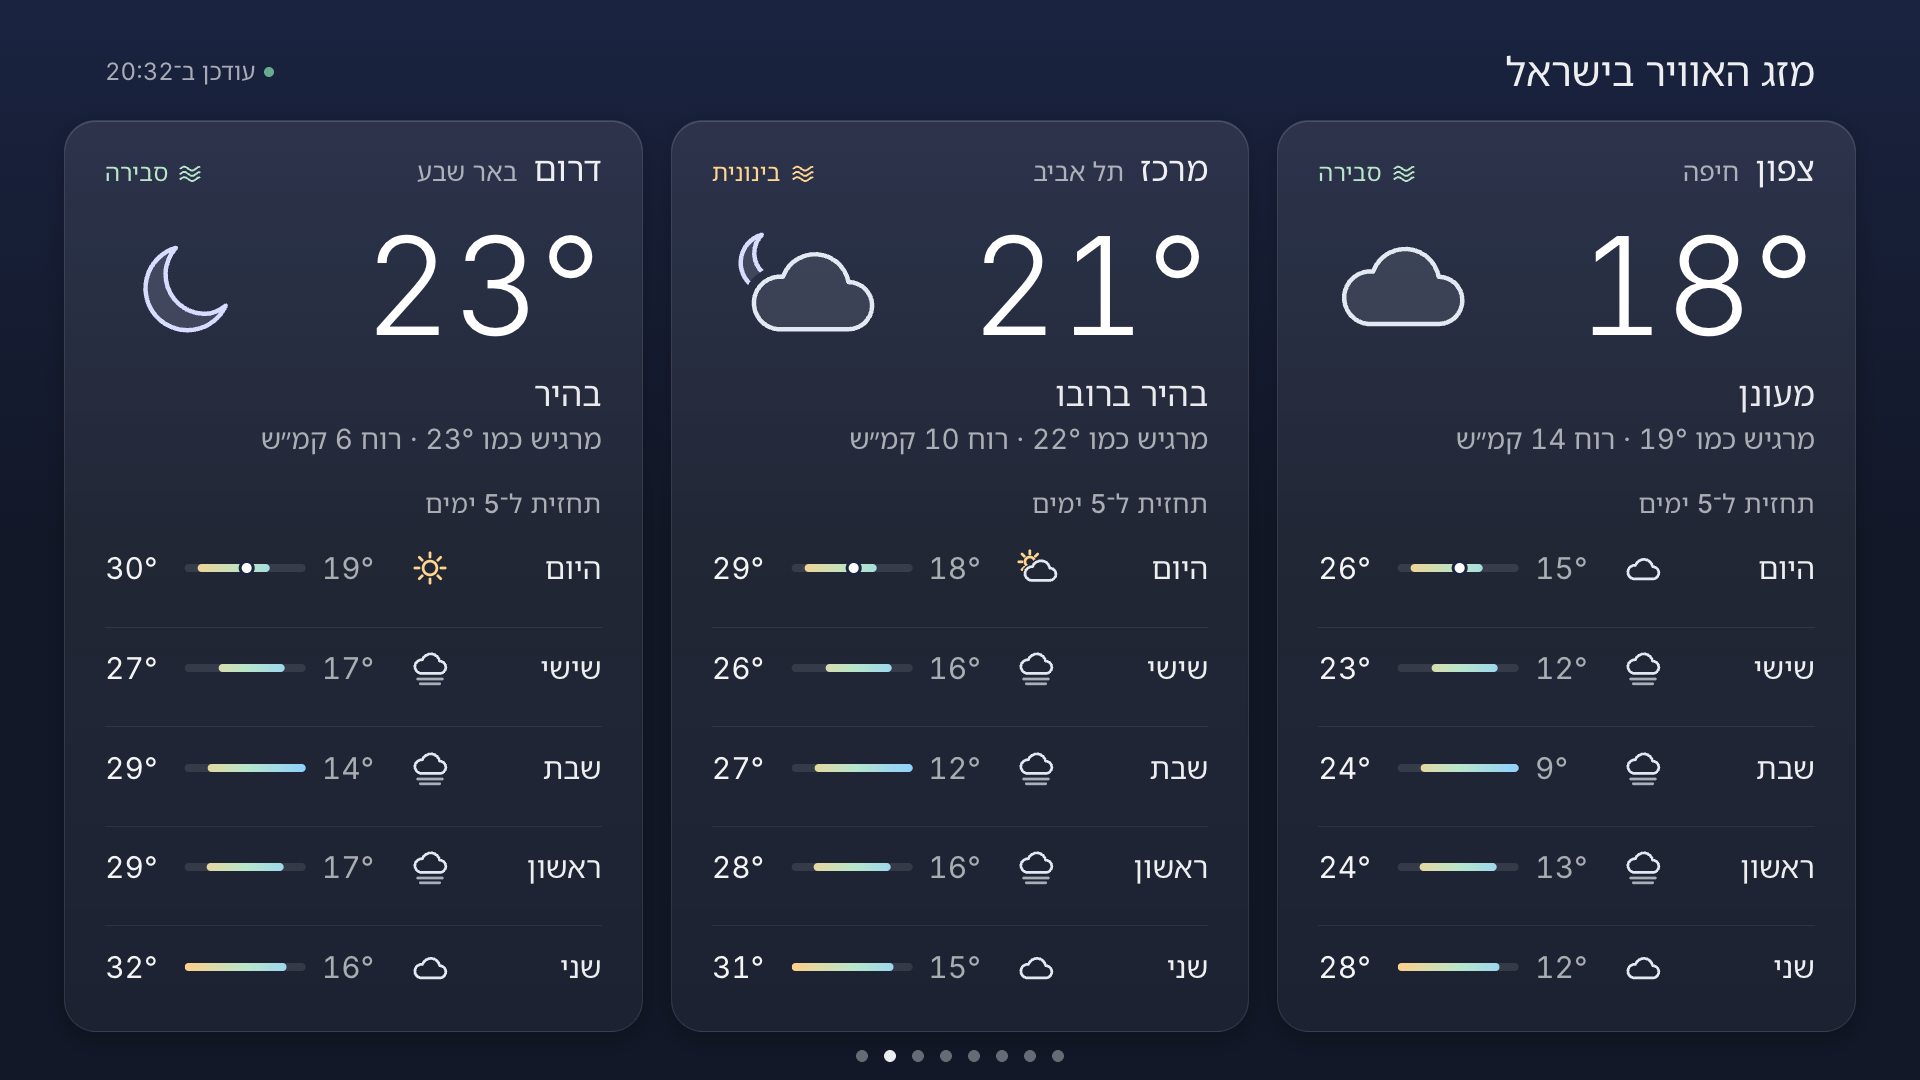
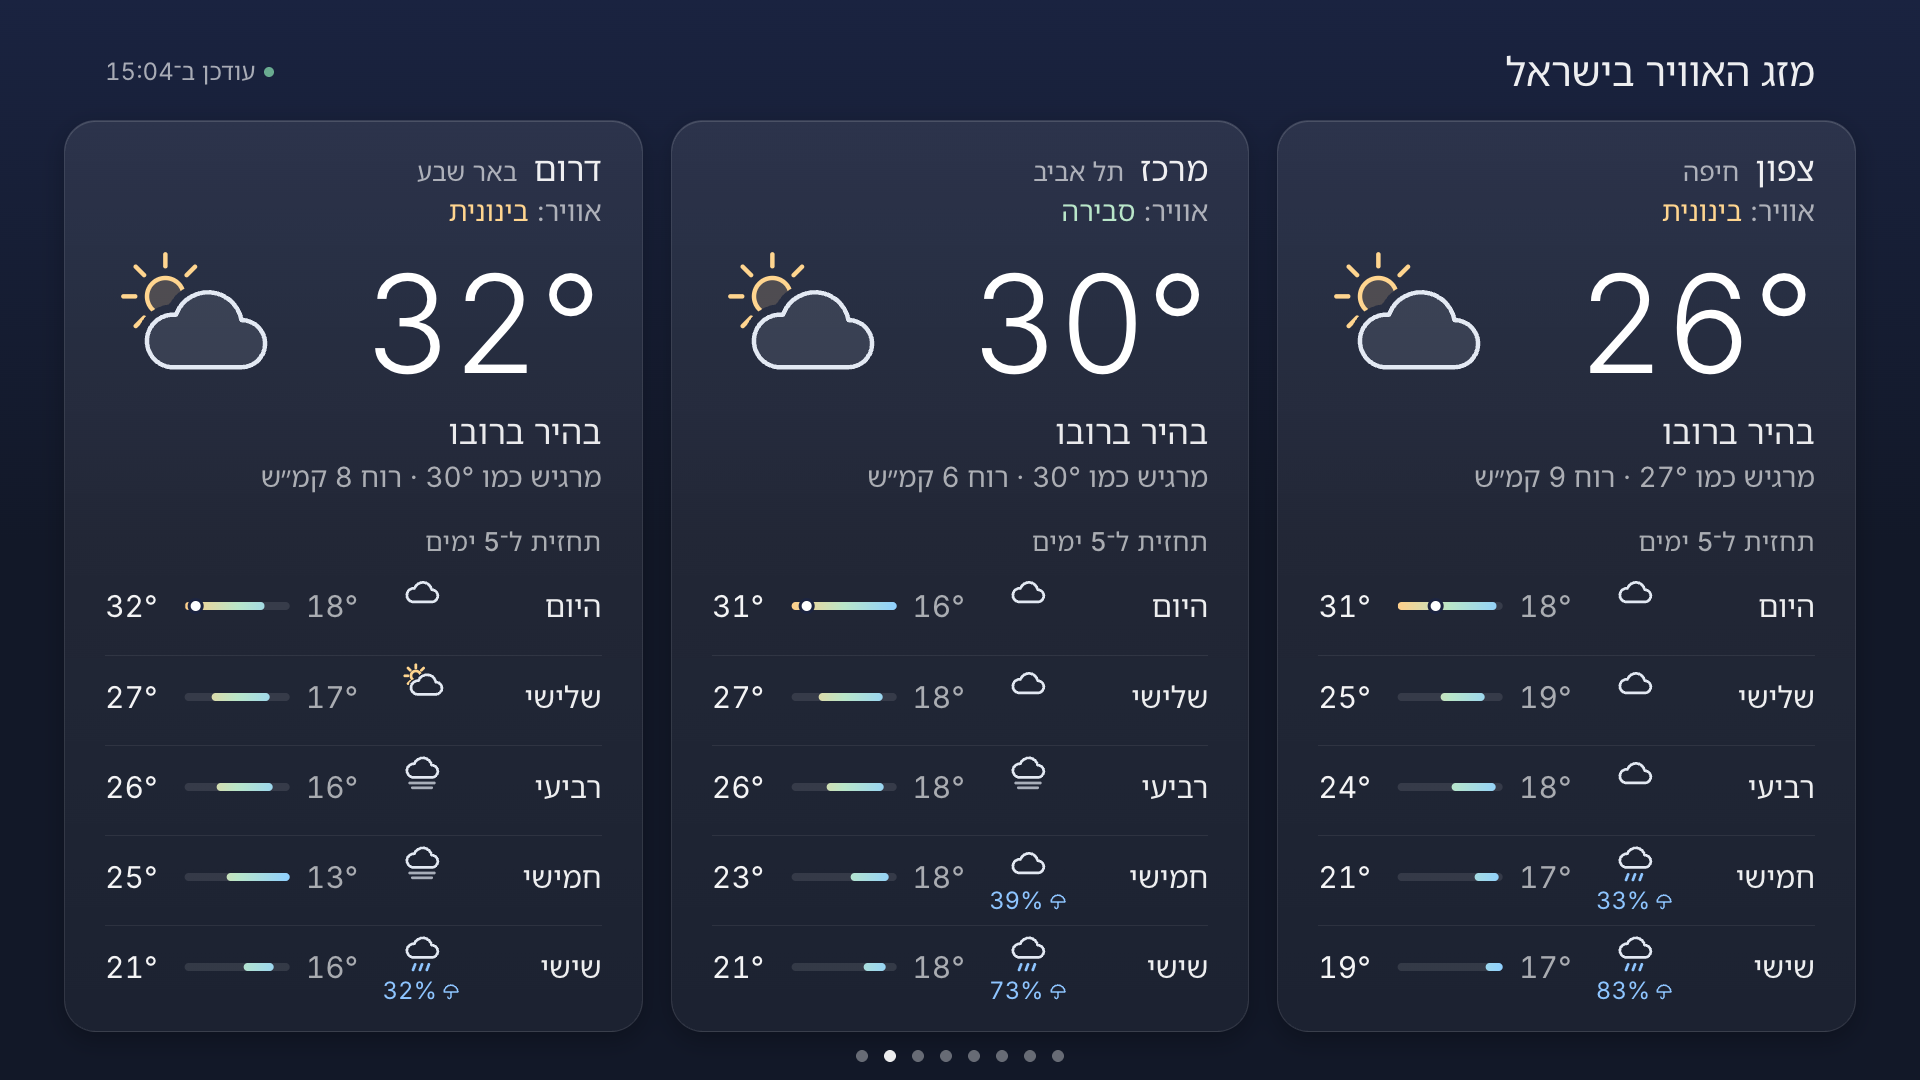
README: refresh every screenshot

diff --git a/README.md b/README.md
@@ -88,8 +88,8 @@ leaves the front it sends `stop-behind`. If the player is not installed or not r
 
 <table>
   <tr>
-    <td><img src="docs/screenshots/he-1-main.png" alt="Home screen in Hebrew: clocks for Israel, Ukraine and Sydney, the weather in Rehovot with the UV index and air quality, a 12-hour strip, and a 7-day forecast, mirrored right to left"></td>
-    <td><img src="docs/screenshots/he-2-israel.png" alt="Weather across Israel in Hebrew: North (Haifa), Centre (Tel Aviv) and South (Beer Sheva), each with an air-quality chip, the weather now and a 5-day forecast"></td>
+    <td><img src="docs/screenshots/he-1-main.png" alt="Home screen in Hebrew: clocks for Israel, Ukraine and Sydney, the weather in Rehovot with three labelled items (UV maximum, air quality, dust in µg/m³), a 12-hour strip, and a 7-day forecast with the chance of rain under an umbrella, mirrored right to left"></td>
+    <td><img src="docs/screenshots/he-2-israel.png" alt="Weather across Israel in Hebrew: North (Haifa), Centre (Tel Aviv) and South (Beer Sheva), each with a labelled air-quality line, the weather now and a 5-day forecast with the chance of rain under an umbrella"></td>
   </tr>
   <tr><td align="center"><b>1 · Home</b> — clocks, the weather, air and UV at home</td><td align="center"><b>2 · Weather in Israel</b> — North, Centre, South</td></tr>
   <tr>
